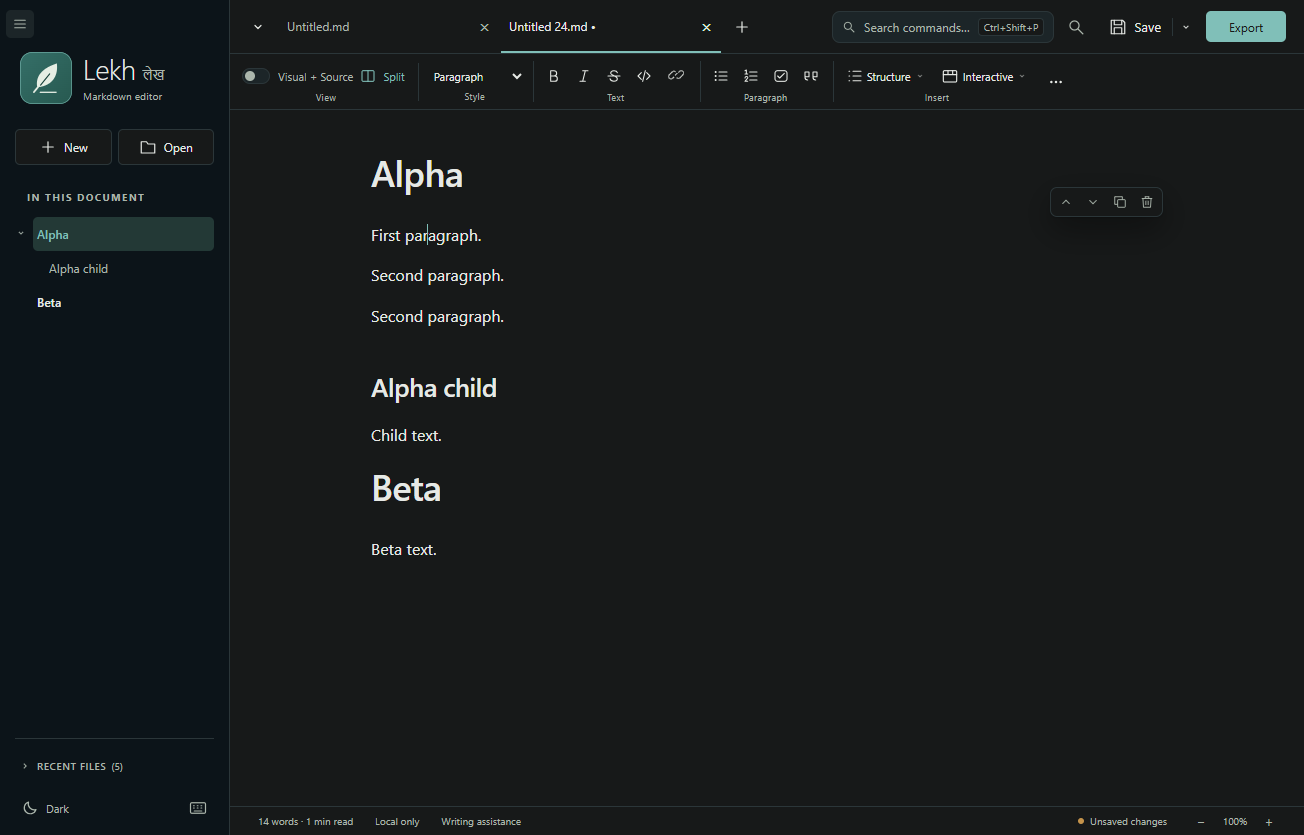
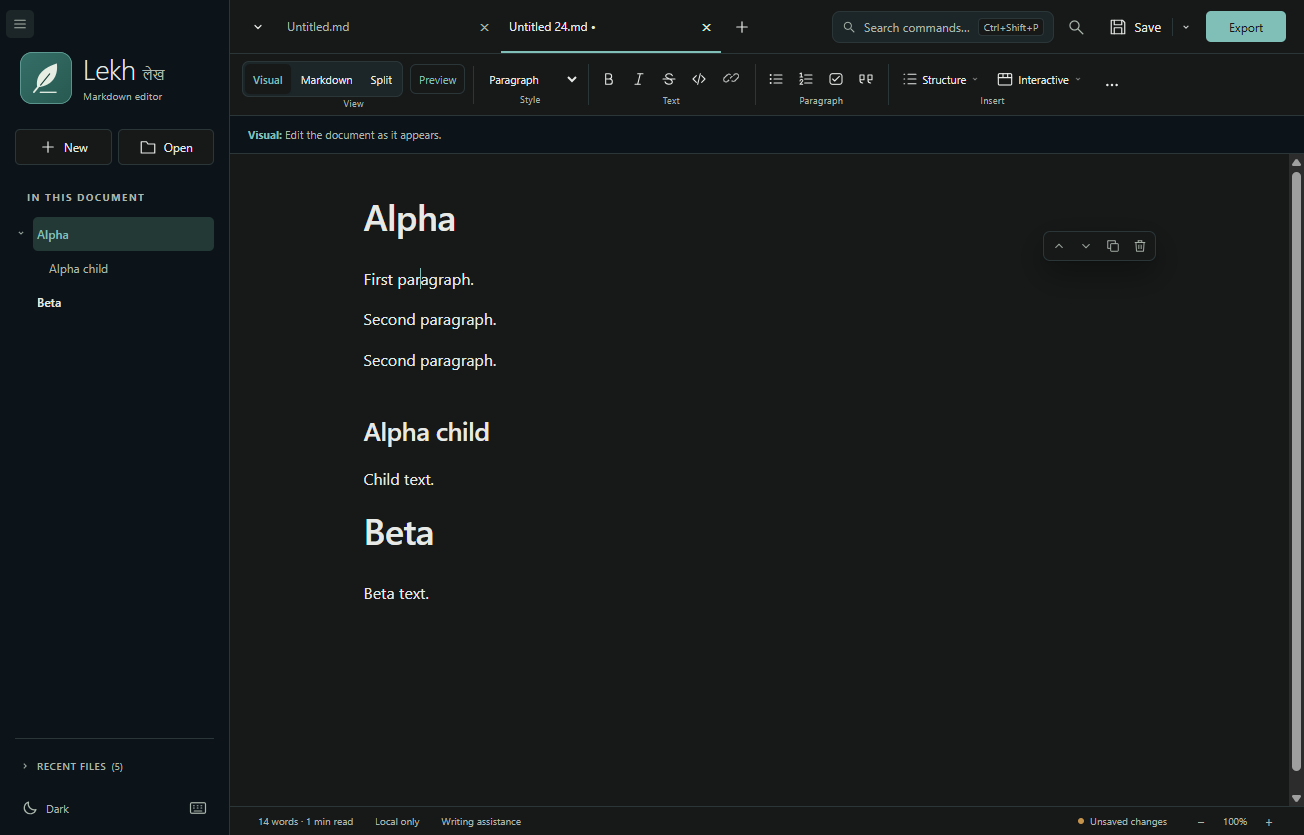
Prepare 0.9.4 release and documentation

diff --git a/tests/release-upgrade.test.ts b/tests/release-upgrade.test.ts
@@ -38,11 +38,11 @@ test('real upgrade operations require explicit consent and both exact hosted-run
   assert.doesNotMatch(script, /-Verb\s+RunAs|UACONLY\s*[,)]|AlwaysInstallElevated|DisableMSI|SuppressIces|SuppressValidation|taskkill|Stop-Process\s+-Name/i);
 });
 
-test('the only old installer is the immutable public 0.9.2 asset, verified before extraction', () => {
-  assert.ok(script.includes("$oldSetupUrl = 'https://github.com/dennispadia/lekh/releases/download/v0.9.2/Lekh-Markdown-editor-Setup-0.9.2-x64.exe'"));
[1 lines of base64/hex data omitted]
-  assert.ok(script.includes('$oldSetupBytes = 197586432L'));
-  assert.ok(script.includes("$manifest.version -cne '0.9.3'"));
+test('the only old installer is the immutable public 0.9.3 asset, verified before extraction', () => {
+  assert.ok(script.includes("$oldSetupUrl = 'https://github.com/dennispadia/lekh/releases/download/v0.9.3/Lekh-Markdown-editor-Setup-0.9.3-x64.exe'"));
[1 lines of base64/hex data omitted]
+  assert.ok(script.includes('$oldSetupBytes = 197594624L'));
+  assert.ok(script.includes("$manifest.version -cne '0.9.4'"));
   const execution = script.slice(script.indexOf("\n    Write-Host 'Scope:"));
   inOrder(execution,
     'Invoke-WebRequest -UseBasicParsing -Uri $oldSetupUrl -OutFile $oldSetup -TimeoutSec 180 -UseDefaultCredentials:$false',
@@ -58,7 +58,7 @@ test('the only old installer is the immutable public 0.9.2 asset, verified befor
   inOrder(ready, 'Assert-HostedRunner', '-not $cleanRunnerVerified', 'Assert-AppNotRunning', 'Start-Process -FilePath $SetupPath');
   assert.doesNotMatch(ready, /Stop-Process|\.Kill\(|MsiConfigureProduct/);
   assert.ok(ready.includes("Wait-UpgradeSetup $setup 'open'"));
-  assert.ok(ready.includes("$status.Description -notlike '*0.9.2*'"), 'The running-app prompt identifies the installed release');
+  assert.ok(ready.includes("$status.Description -notlike '*0.9.3*'"), 'The running-app prompt identifies the installed release');
   assert.ok(ready.includes("$status.Primary.Current.Name -cne 'Check again'"));
   assert.ok(ready.includes("if (-not $states.Contains('upgrade') -and -not $states.Contains('preparing'))"),
     'a passing upgrade must actually expose the version-bearing state');
@@ -87,7 +87,7 @@ test('both embedded MSIs are validated for distinct identity, version and non-el
     "$_[0] -ine $upgradeCode",
   ]) assert.ok(validation.includes(guard), `Missing package guard: ${guard}`);
   const execution = script.slice(script.indexOf("\n    Write-Host 'Scope:"));
-  inOrder(execution, "Read-ValidatedMsi $oldMsi '0.9.2'", 'Read-ValidatedMsi $newMsi $manifest.version',
+  inOrder(execution, "Read-ValidatedMsi $oldMsi '0.9.3'", 'Read-ValidatedMsi $newMsi $manifest.version',
     '$old.ProductCode -ieq $new.ProductCode',
     '$newMsiHash = (Get-FileHash -LiteralPath $newMsi -Algorithm SHA256).Hash',
     '$newMsiHash -cne',

diff --git a/tests/distribution.test.ts b/tests/distribution.test.ts
@@ -65,7 +65,7 @@ test('distribution uses the public npm registry and ships notices without develo
   assert.equal(manifest.name, 'lekh');
   assert.equal(lock.name, manifest.name);
   assert.equal(lock.packages[''].name, manifest.name);
-  assert.equal(manifest.version, '0.9.3');
+  assert.equal(manifest.version, '0.9.4');
   assert.equal(manifest.build.appId, 'com.lekh.desktop');
   assert.equal(manifest.build.productName, 'Lekh - Markdown editor');
   assert.equal(manifest.build.msi.shortcutName, 'Lekh');

diff --git a/docs/USER_GUIDE.md b/docs/USER_GUIDE.md
@@ -14,7 +14,7 @@ For a source checkout, double-click **Launch.cmd** in the project root. The deve
 
 Lekh uses a standalone `%APPDATA%\Lekh` profile for preferences, recent files, Chromium storage, and recovery drafts. Application files install to `%LOCALAPPDATA%\lekh`. **An existing Lekh profile is retained during upgrades; saved Markdown files can be opened normally.** It does not import another product's profile, use migration aliases, or uninstall another product. Its independent MSI upgrade code stays stable for future Lekh releases. Choose it explicitly for `.md` file associations if desired.
 
-The 0.9.2 release passed genuine **0.9.1 -> 0.9.2** upgrade tests on a clean Windows runner, including automatic upgrades with Lekh closed and a single recheck after closing a running editor. Old registration and payload removal were verified before the new payload stage. Cancellation after removal restored the exact old registration and every old payload byte. Upgrade, repair and uninstall preserved seeded profile settings and a recovery sentinel. See [build and validation details](BUILDING.md#build-outputs).
+The 0.9.3 release passed genuine **0.9.2 -> 0.9.3** upgrade tests on a clean Windows runner, including automatic upgrades with Lekh closed and a single recheck after closing a running editor. Old registration and payload removal were verified before the new payload stage. Cancellation after removal restored the exact old registration and every old payload byte. Upgrade, repair and uninstall preserved seeded profile settings and a recovery sentinel. See [build and validation details](BUILDING.md#build-outputs).
 
 No Microsoft Word, Pandoc, account, or internet connection is required to edit or export documents after setup. Images hosted on websites are deliberately not downloaded.
 
@@ -112,11 +112,11 @@ Supported containers, including tabs and variant bodies around an alert, are edi
 **Interactive** includes **Tabbed examples** and **Variant selector**. Image descriptions, document metadata and Include are in **Structure**. Variant content is a follow-on action after creating a selector, not a separate starting option. Inline hints explain how to select, rename and add choices. New example and variant bodies are empty, with placeholders that disappear when clicked; there is no sample text to delete. Variant cards identify their assigned options and keep assignment controls in the header. Existing document text is never cleared when you focus it.
 Select existing content before choosing tabs or variant content to retain it inside the new body. A selector inserts only choices, retaining selected prose separately rather than bundling variant bodies.
 
-**Tabbed examples:** select a tab and type/format directly in its body, with no separate tab-name form above the content. Click the selected tab name again (or double-click it, or press **F2**) to rename it directly on the tab. **Enter** finishes renaming; **Escape** restores the previous name. The Markdown heading's `#tab/` identifier follows the tab label (for example, **Service Principal** becomes `#tab/serviceprincipal`). The **+** immediately after the tabs adds an example and puts the caret in its body. Each tab has an **×** to remove that example; undo restores its name and complete content. Removing the last tab removes the whole tabbed example. Inserting a block always leaves an empty line below it so you can keep writing.
+**Tabbed examples:** a new block starts with two empty examples. Select a tab and type/format directly in its body, with no separate tab-name form above the content. Click the selected tab name again (or double-click it, or press **F2**) to rename it directly on the tab. **Enter** finishes renaming; **Escape** restores the previous name. The Markdown heading's `#tab/` identifier follows the tab label (for example, **Service Principal** becomes `#tab/serviceprincipal`). The **+** immediately after the tabs adds an example and puts the caret in its body. Each tab has an **×** to remove that example; undo restores its name and complete content. Removing the last tab removes the whole tabbed example. Inserting a block always leaves an empty line below it so you can keep writing.
 
 **Variant selector and distributed content:**
 
-1. Insert **Interactive > Variant selector** once. Its title field starts empty with the hint **Describe the title for the selection**; the hint is not saved text. Below it, Lekh reminds you to choose **Add variant content** from the Interactive menu for each option. Click the selected choice again (or double-click it, or press **F2**) to rename it in place. **+** after the last choice adds one; **×** removes a choice, and removing the last choice removes the selector. Renaming a label keeps its stable ID and all matching content.
+1. Insert **Interactive > Variant selector** once. It starts with two options, and its title field starts empty with the hint **Describe the title for the selection**; the hint is not saved text. Below it, Lekh reminds you to choose **Add variant content** from the Interactive menu for each option. Click the selected choice again (or double-click it, or press **F2**) to rename it in place. **+** after the last choice adds one; **×** removes a choice, and removing the last choice removes the selector. Renaming a label keeps its stable ID and all matching content.
 2. Put the caret wherever the content belongs or select text to wrap, then choose **Interactive > Add variant content…** and select one or more existing options. The original selector menu entry changes to this action once a selector exists. The native Insert and right-click menus follow the same workflow.
 3. Write and format directly in the new body. Repeat at other locations; content does not have to sit beside the selector.
 4. Inactive content retains a compact card with **Show and edit**. **Applies to...** changes its option assignments; at least one assignment is required. **×** removes the content block, and undo restores it.
@@ -151,7 +151,7 @@ Unsupported or over-depth directives remain source-preserving and visibly identi
 
 ![Edit the complete metadata YAML directly in the Visual document](images/publishing-fields-dark.png)
 
-Choose **Structure > Include** and enter a title and file path to insert `[!INCLUDE [title](filepath)]`. Save the parent document first so paths can be resolved. Visual and Preview show the included Markdown as read-only content; exports contain the same content, excluding the include file's opening YAML metadata. The parent and included source files are not rewritten. Use **Refresh content** after an included file changes outside Lekh, or open that file to edit it.
+Choose **Structure > Include** (also available from the native Insert and right-click menus) and enter a title and file path to insert `[!INCLUDE [title](filepath)]`. Save the parent document first so paths can be resolved. Visual and Preview show the included Markdown as read-only content; exports contain the same content, excluding the include file's opening YAML metadata. The parent and included source files are not rewritten. Use **Refresh content** after an included file changes outside Lekh, or open that file to edit it.
 
 Includes within the parent document's folder are available automatically. To use files elsewhere in the same project, choose **Allow include folder...** on the include or **More (...) > Allow local include folder...**, and select a folder containing both the saved parent and included files. This session-only grant covers local Markdown includes and their images, is separate from the image-folder grant, and can be revoked with **Stop local include folder access**. Paths in nested includes and their images are relative to the file containing them. Remote paths, files outside the allowed folder, symlink escapes, missing files, cycles and oversized content are reported instead of silently skipped; include nesting is limited to 12 levels, 128 includes and 20 MB total.
 

diff --git a/docs/BUILDING.md b/docs/BUILDING.md
@@ -46,7 +46,7 @@ Close running copies before rebuilding. Do not run two packaging/build commands 
 
 The official workflow additionally runs `verify:setup -- -InstallOnHostedRunner` only on a clean GitHub-hosted runner. That opt-in path performs a real fresh installation through the setup UI, verifies the exact current-user product name/version/cache through Windows Installer APIs, then uninstalls only that exact product and checks the recovery-profile sentinel remains. It also exercises both animation preferences and restores the runner's original preference in `finally`. Default local verification neither installs/uninstalls nor changes your Windows animation setting; reduced-motion mode remains static.
 
-The current `scripts/Test-Upgrade.ps1` is deliberately bounded to the genuine published **0.9.2 -> 0.9.3** lineage and refuses product maintenance without its explicit GitHub-hosted runner gate. It pins the old public EXE's size and SHA-256, verifies exact registrations/payloads, and tests cancellation only after the old registration/executable/`app.asar` are proven absent. Windows must return cancellation code 1602 and restore the old registration, every old payload byte and seeded profile data. It then exercises the real new EXE's idle automatic upgrade, same-version rejection with the editor closed/open, and one-click recheck after gracefully closing an owned blank editor using an isolated profile. No application is forcibly closed. Repair restores a deliberately removed current `app.asar`; exact-product uninstall retains the seeded profile. Foreign registrations, unowned running apps, reparse points and unrecognized residue are rejected. The [official 0.9.2 build](https://github.com/dennispadia/lekh/actions/runs/41283131202) verified the preceding 0.9.1 -> 0.9.2 lineage; the [0.9.1 build](https://github.com/dennispadia/lekh/actions/runs/41269204614) verified 0.9.0 -> 0.9.1.
+The current `scripts/Test-Upgrade.ps1` is deliberately bounded to the genuine published **0.9.3 -> 0.9.4** lineage and refuses product maintenance without its explicit GitHub-hosted runner gate. It pins the old public EXE's size and SHA-256, verifies exact registrations/payloads, and tests cancellation only after the old registration/executable/`app.asar` are proven absent. Windows must return cancellation code 1602 and restore the old registration, every old payload byte and seeded profile data. It then exercises the real new EXE's idle automatic upgrade, same-version rejection with the editor closed/open, and one-click recheck after gracefully closing an owned blank editor using an isolated profile. No application is forcibly closed. Repair restores a deliberately removed current `app.asar`; exact-product uninstall retains the seeded profile. Foreign registrations, unowned running apps, reparse points and unrecognized residue are rejected. The [official 0.9.3 build](https://github.com/dennispadia/lekh/actions/runs/41337839291) verified the preceding 0.9.2 -> 0.9.3 lineage; the [0.9.2 build](https://github.com/dennispadia/lekh/actions/runs/41283131202) verified 0.9.1 -> 0.9.2.
 
 Setup checks the installed version before checking running processes. The same version reports already installed, and a newer version blocks downgrade; neither offers installation. Fresh installs and closed older-version upgrades start automatically once the window renders. Only a running editor prompts to save/close, and one **Check again** re-evaluates registration/processes and starts immediately when safe. Registration and running-app guards are repeated before payload extraction and installation. The MSI schedules `RemoveExistingProducts` after `InstallInitialize`, inside rollback protection. Real callbacks distinguish removal, the verified removal checkpoint, new-payload installation and finalization; nested old-uninstall callbacks cannot announce the new installation prematurely. A separate destructive pre-upgrade uninstall is not used, and installation refuses a policy that disables rollback. Windows Installer maintenance/repair remains available independently; the setup EXE does not offer same-version reinstall.
 
@@ -86,7 +86,7 @@ npm.cmd run test:desktop
 Remove-Item Env:\LEKH_PUBLIC_SCREENSHOTS
 ```
 
-They are written to `docs\images\lekh-light.png` and `docs\images\lekh-dark-split.png`. Review them before committing. Only current Lekh screenshots are retained; normal test runs do not overwrite these images.
+The README and user-guide screenshots are written to `docs\images`. Review the changed images before committing. Only current Lekh screenshots are retained; normal test runs do not overwrite these images.
 
 ## Project map
 

diff --git a/docs/PUBLISHING.md b/docs/PUBLISHING.md
@@ -17,9 +17,9 @@ GitHub's browser uploader does not apply `.gitignore` for you. Do not drag the e
 
 The repository is `dennispadia/lekh`. The [latest release](https://github.com/dennispadia/lekh/releases/latest) provides the offline setup EXE, source ZIP and checksums. Earlier releases remain unchanged.
 
-The complete **0.9.2** unit, packaged desktop, setup and genuine hosted **0.9.1 -> 0.9.2** removal/cancellation-rollback/upgrade/repair gates passed the [official Windows build](https://github.com/dennispadia/lekh/actions/runs/41283131202). The old payload/profile restoration assertion remains mandatory; do not replace it with a skipped or label-only scenario.
+The complete **0.9.3** unit, packaged desktop, setup and genuine hosted **0.9.2 -> 0.9.3** removal/cancellation-rollback/upgrade/repair gates passed the [official Windows build](https://github.com/dennispadia/lekh/actions/runs/41337839291). The old payload/profile restoration assertion remains mandatory; do not replace it with a skipped or label-only scenario.
 
-The current hosted gate targets the pinned public **0.9.2 -> 0.9.3** lineage and must pass before publication: real idle/running EXE upgrades, same-version rejection, removal-before-new, cancellation restoring old bytes, repair and profile-preserving cleanup.
+The current hosted gate targets the pinned public **0.9.3 -> 0.9.4** lineage and must pass before publication: real idle/running EXE upgrades, same-version rejection, removal-before-new, cancellation restoring old bytes, repair and profile-preserving cleanup.
 
 Lekh's independent identities are npm package `lekh`, application ID `com.lekh.desktop`, `%APPDATA%\Lekh` profile, and `%LOCALAPPDATA%\lekh` application directory. The executable is `Lekh - Markdown editor.exe`. The independent MSI upgrade code is `DCBCF7FA-11DA-4F35-8D27-D066EEC6C582`; keep it stable for future Lekh upgrades and consistent with installer policy and verification tests. Existing Lekh profiles are retained during upgrades. No migration aliases or automatic removal of another product are included.
 

diff --git a/README.md b/README.md
@@ -40,7 +40,7 @@
 
 | | |
 | --- | --- |
-| **Visual, Markdown and Split** | Choose an editable view, or open an interactive reader preview with optional Markdown beside it. |
+| **Visual, Markdown and Split** | Choose an editable view, or open an interactive reader preview with optional editable Markdown on the right. Return to your previous view with **Back to editing**. |
 | **Rich Markdown** | Headings, emphasis, lists, task lists, quotes, links, tables, images, rules and syntax-highlighted code. |
 | **Mermaid diagrams** | Insert and edit diagrams that render offline, right where your cursor is. |
 | **Find and replace** | Match case, whole word and regex, with live match counts and one-step Replace all. |
@@ -63,7 +63,8 @@
 | --- | --- |
 | **Alerts** | Note, Tip, Important, Caution and Warning, each with its own icon and Light/Dark colors. Type and format inside them directly. |
 | **Tabbed examples** | Start with empty example bodies and click-away writing hints, not sample text to delete. Rename tabs in place; **+** adds one and **×** removes one. Names become `# [Name](#tab/name)` headings in Markdown. |
-| **Variants** | Give the selector a title, then use **Interactive > Add variant content** wherever it belongs. Empty content cards guide you with placeholders that disappear on focus and never enter your document. |
+| **Variants** | Give the selector a title, rename choices in place, and use **+** or **×** to add or remove them. Choose **Interactive > Add variant content** wherever it belongs. |
+| **Include** | Insert a title and path with **Structure > Include** to show shared local Markdown in Visual, Preview and exports without rewriting the source. |
 | **Metadata** | One YAML box for any front-matter keys, kept out of the article body. |
 
 ### Workspace and safety

diff --git a/CHANGELOG.md b/CHANGELOG.md
@@ -1,5 +1,16 @@
 # Changelog
 
+## 0.9.4
+
+- Restore **Structure > Include** with title and file path, read-only local content in Visual and Preview, and expansion in HTML, Word and PDF exports. Include files keep their source unchanged and their opening YAML stays out of article content.
+- Resolve nested includes relative to their containing files, with separate, per-document folder authorization, bounded reads and explicit errors for unavailable or unauthorized content. Interactive content in an include requires HTML export.
+- Rename tab and selector options directly in place; use **+** to add and **×** to remove them. Removing the last tab or selector option removes its block, and undo restores it.
+- Place variant content independently through **Interactive > Add variant content**, with matching native and right-click commands. Preserve a selected block when inserting content after it and place the caret in the new variant.
+- Offer distinct **Visual**, **Markdown** and **Split** editing views, plus interactive **Preview** with optional editable Markdown on the right. Returning to editing restores the previous view.
+- Keep Preview read-only for image paste and drop, while allowing image insertion in the optional Markdown pane.
+- Offer contextual project-folder access for external images and variant labels, separate from local Include permissions.
+- Guard the genuine 0.9.3 -> 0.9.4 hosted upgrade matrix.
+
 ## 0.9.3
 
 - Use 1.15 line spacing consistently in Word exports instead of the larger editor-oriented spacing.
